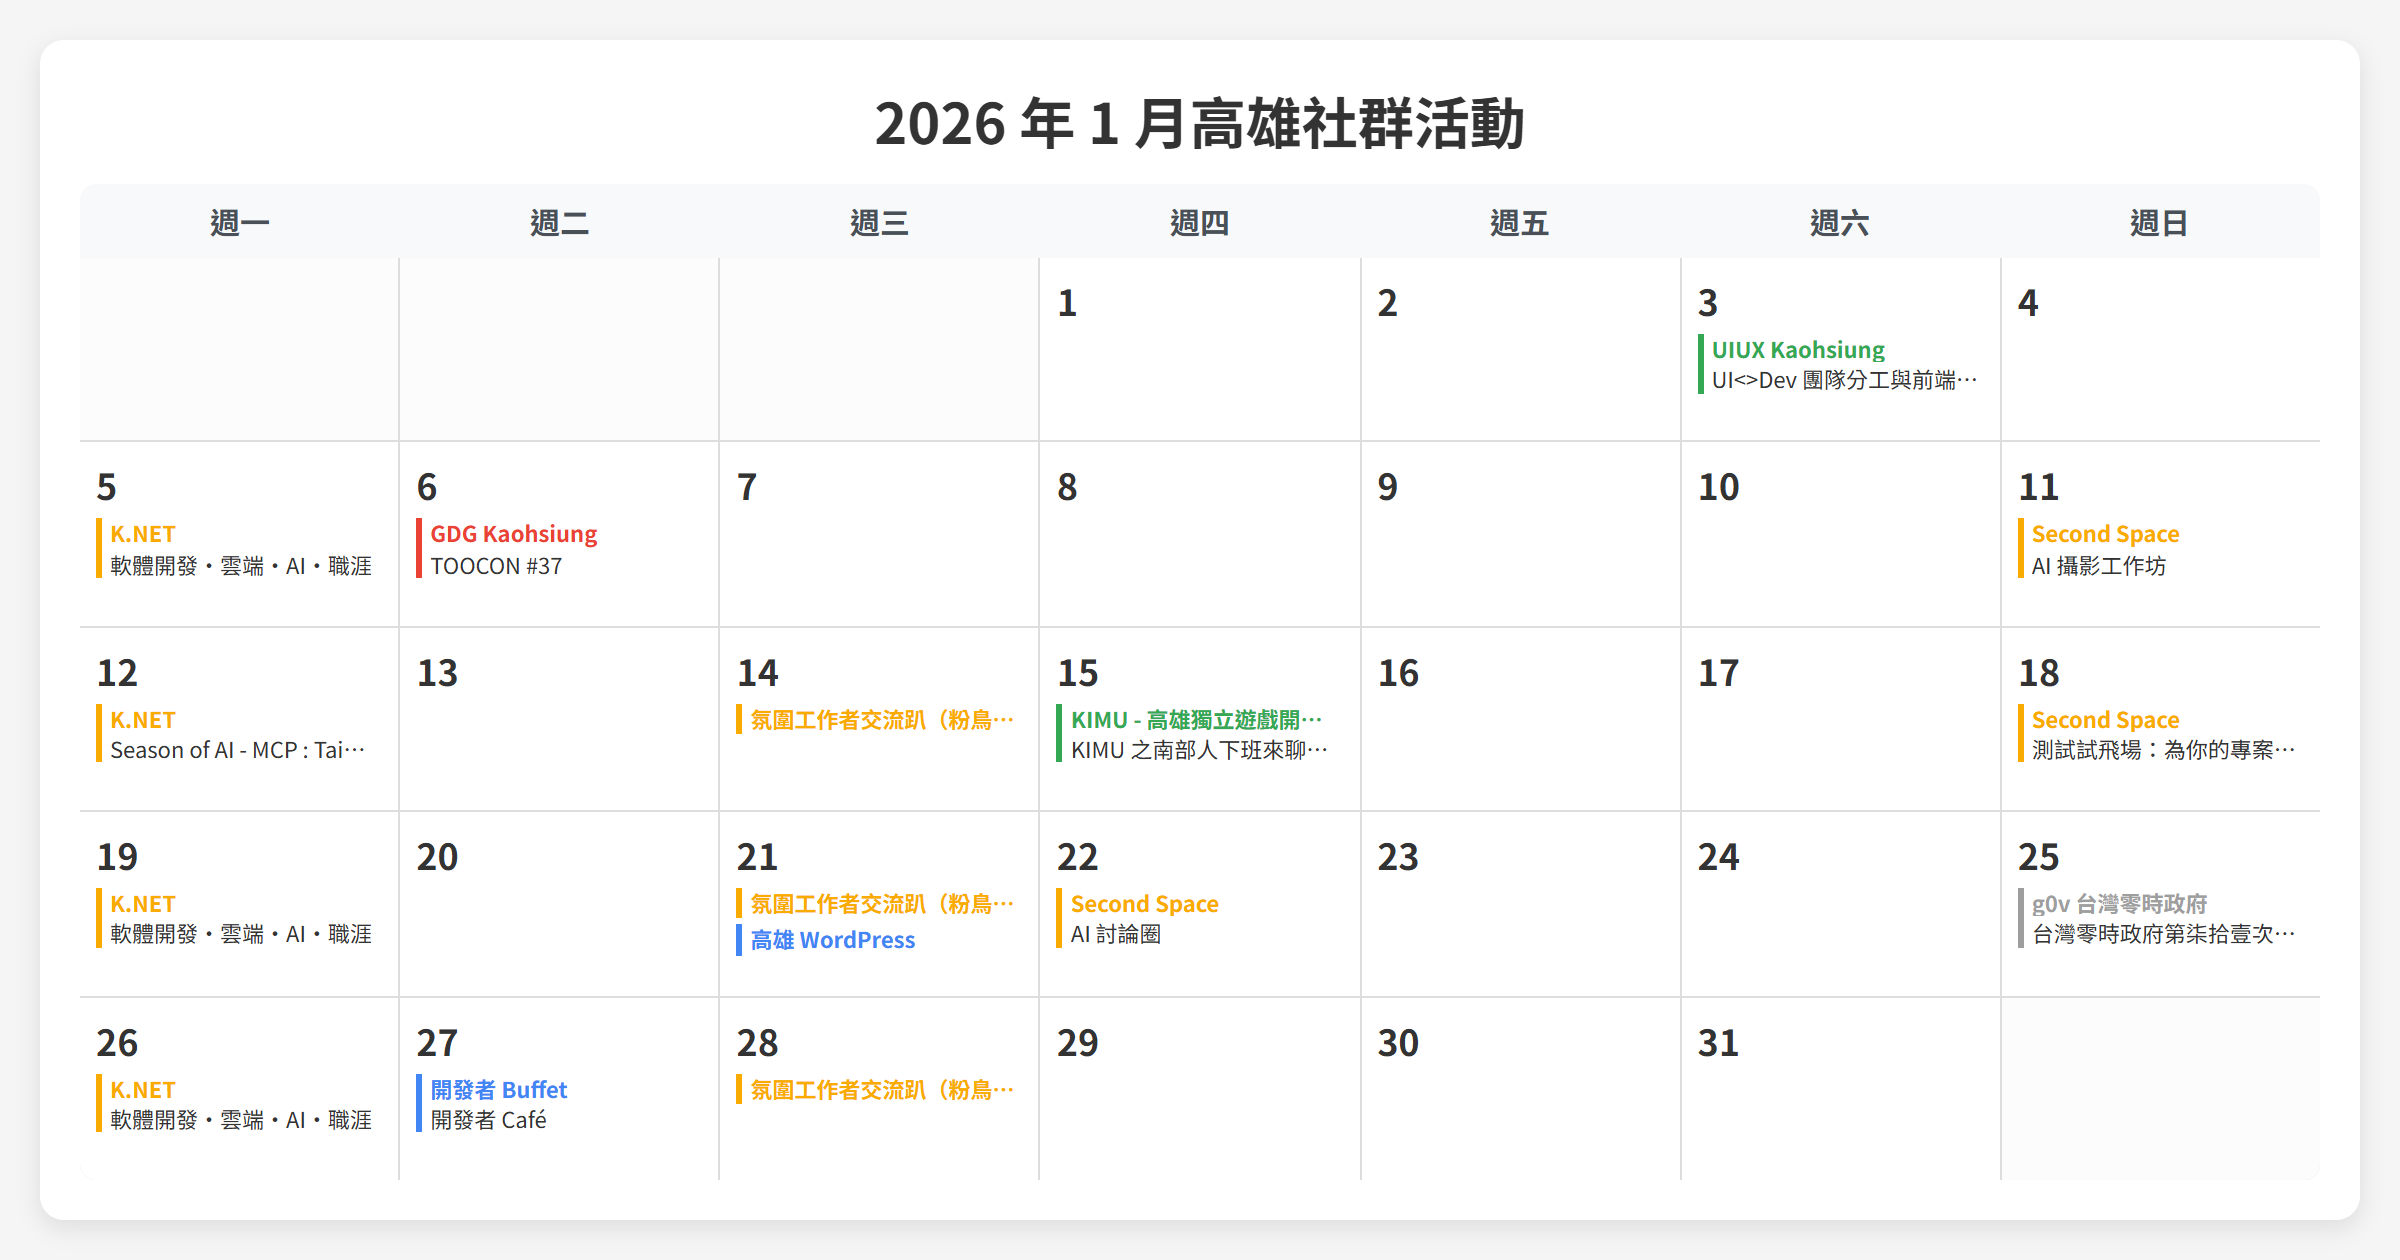
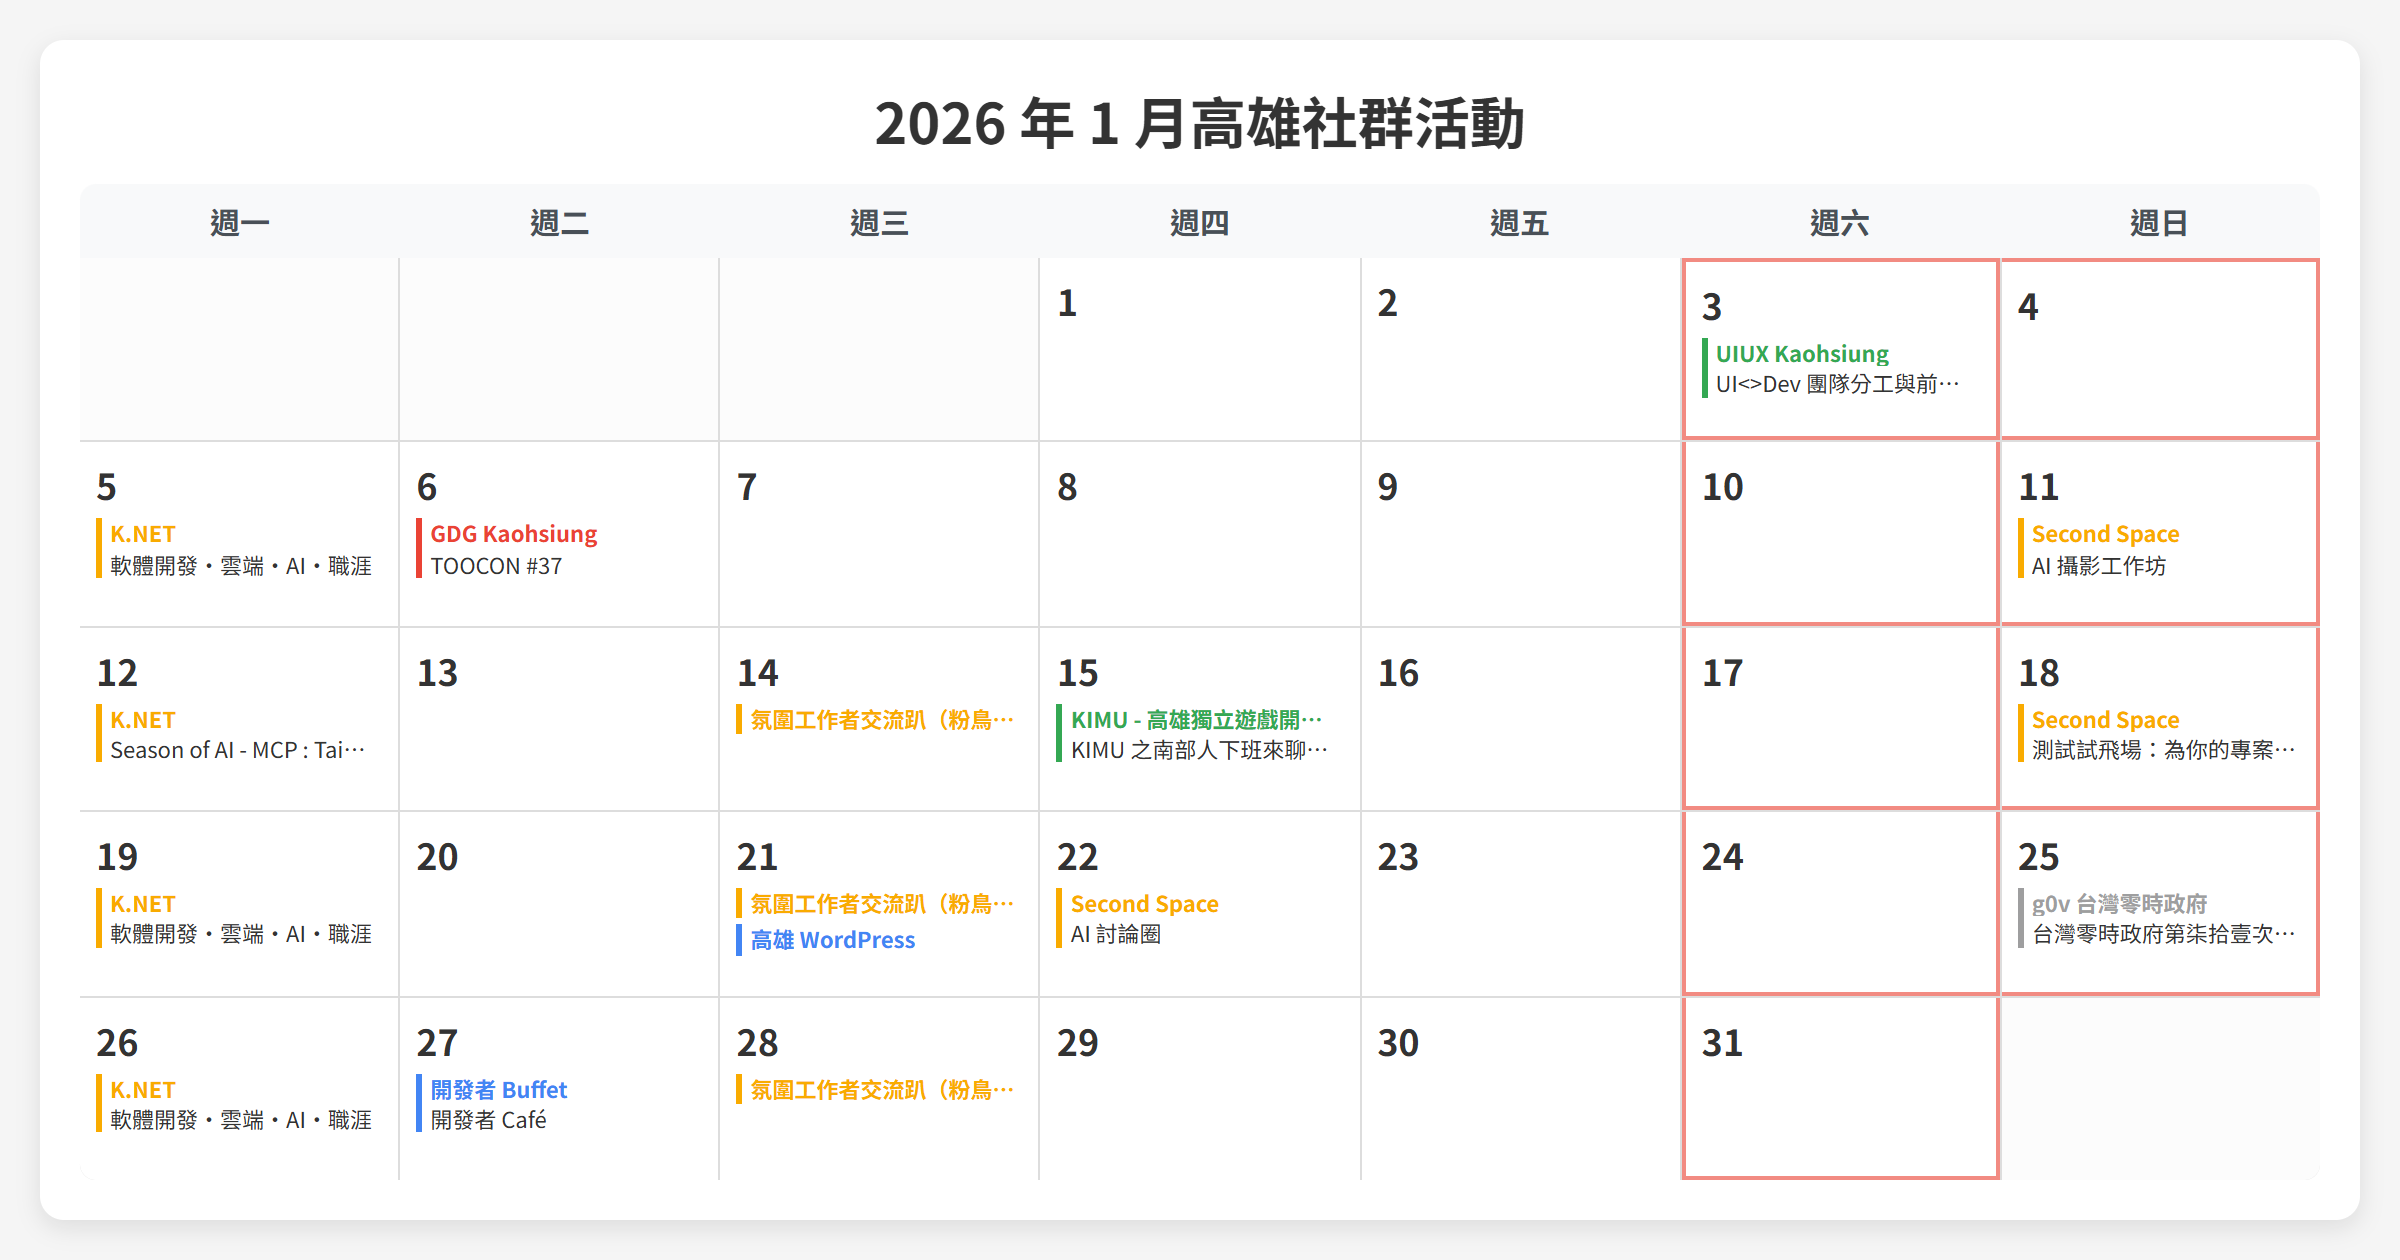
feat: 為社群月曆添加週末標示功能
- 為星期六和星期日的日期格子添加淺紅色邊框 (#f28b82)
- 使用智慧邊框邏輯避免週六/週日和上下週的邊框重疊
- 同步更新 OG 圖片生成模板，確保社群媒體分享時也能顯示週末標示
- 優化視覺效果，方便使用者快速識別假日

diff --git a/scripts/calendar-template.html b/scripts/calendar-template.html
@@ -93,6 +93,30 @@
             background: #fcfcfc;
         }
 
+        /* Weekend borders */
+        .calendar-day.saturday {
+            border-left: 2px solid #f28b82;
+            border-right: 2px solid #f28b82;
+            border-bottom: 2px solid #f28b82;
+        }
+
+        .calendar-day.sunday {
+            border-left: 2px solid #f28b82;
+            border-right: 2px solid #f28b82;
+            border-bottom: 2px solid #f28b82;
+        }
+
+        /* Add top border only when needed */
+        .calendar-day.saturday.weekend-top,
+        .calendar-day.sunday.weekend-top {
+            border-top: 2px solid #f28b82;
+        }
+
+        /* Remove duplicate border between Saturday and Sunday */
+        .calendar-day.saturday + .calendar-day.sunday {
+            border-left: none;
+        }
+
         .date-number {
             font-weight: bold;
             font-size: 18px;
@@ -173,9 +197,34 @@
             // Days
             for (let day = 1; day <= daysInMonth; day++) {
                 const dateStr = `${year}-${String(month).padStart(2, '0')}-${String(day).padStart(2, '0')}`;
+
+                // Calculate day of week (0=Sunday, 6=Saturday)
+                const currentDateObj = new Date(year, month - 1, day);
+                const dayOfWeek = currentDateObj.getDay();
+                const isSaturday = (dayOfWeek === 6);
+                const isSunday = (dayOfWeek === 0);
+                const isWeekend = isSaturday || isSunday;
+
+                // Check if we need top border
+                let needTopBorder = false;
+                if (isWeekend) {
+                    if (day <= 7) {
+                        needTopBorder = true;
+                    } else {
+                        const prevWeekDay = day - 7;
+                        const prevWeekDate = new Date(year, month - 1, prevWeekDay);
+                        const prevWeekDayOfWeek = prevWeekDate.getDay();
+                        const prevWeekIsWeekend = (prevWeekDayOfWeek === 0 || prevWeekDayOfWeek === 6);
+                        needTopBorder = !prevWeekIsWeekend;
+                    }
+                }
+
+                const weekendClass = isSaturday ? ' saturday' : (isSunday ? ' sunday' : '');
+                const topBorderClass = needTopBorder ? ' weekend-top' : '';
+
                 const dayEvents = events.filter(e => e.date === dateStr);
 
-                html += `<div class="calendar-day">
+                html += `<div class="calendar-day${weekendClass}${topBorderClass}">
                     <div class="date-number">${day}</div>`;
 
                 // If 2+ events on same day, only show community name

diff --git a/2026/calendar.html b/2026/calendar.html
@@ -191,11 +191,37 @@
                         // Days
                         for (let day = 1; day <= daysInMonth; day++) {
                             const dateStr = `${currentYear}-${String(currentMonth + 1).padStart(2, '0')}-${String(day).padStart(2, '0')}`;
-                            
+
+                            // Calculate day of week (0=Sunday, 6=Saturday)
+                            const currentDateObj = new Date(currentYear, currentMonth, day);
+                            const dayOfWeek = currentDateObj.getDay();
+                            const isSaturday = (dayOfWeek === 6);
+                            const isSunday = (dayOfWeek === 0);
+                            const isWeekend = isSaturday || isSunday;
+
+                            // Check if we need top border (if previous week same day is not weekend or doesn't exist)
+                            let needTopBorder = false;
+                            if (isWeekend) {
+                                if (day <= 7) {
+                                    // First week, always need top border
+                                    needTopBorder = true;
+                                } else {
+                                    // Check previous week same day
+                                    const prevWeekDay = day - 7;
+                                    const prevWeekDate = new Date(currentYear, currentMonth, prevWeekDay);
+                                    const prevWeekDayOfWeek = prevWeekDate.getDay();
+                                    const prevWeekIsWeekend = (prevWeekDayOfWeek === 0 || prevWeekDayOfWeek === 6);
+                                    needTopBorder = !prevWeekIsWeekend;
+                                }
+                            }
+
+                            const weekendClass = isSaturday ? ' saturday' : (isSunday ? ' sunday' : '');
+                            const topBorderClass = needTopBorder ? ' weekend-top' : '';
+
                             // Find events for this day
                             const dayEvents = allEvents.filter(e => e.date === dateStr);
-                            
-                            html += `<div class="calendar-day">
+
+                            html += `<div class="calendar-day${weekendClass}${topBorderClass}">
                                 <span class="date-number">${day}</span>`;
                             
                             if (dayEvents.length > 0) {

diff --git a/index.css b/index.css
@@ -186,6 +186,30 @@ ul {
     background-color: #fcfcfc;
 }
 
+/* Weekend borders */
+.calendar-day.saturday {
+    border-left: 1px solid #f28b82;
+    border-right: 1px solid #f28b82;
+    border-bottom: 1px solid #f28b82;
+}
+
+.calendar-day.sunday {
+    border-left: 1px solid #f28b82;
+    border-right: 1px solid #f28b82;
+    border-bottom: 1px solid #f28b82;
+}
+
+/* Add top border only when needed (to avoid overlap with previous week) */
+.calendar-day.saturday.weekend-top,
+.calendar-day.sunday.weekend-top {
+    border-top: 1px solid #f28b82;
+}
+
+/* Remove duplicate border between Saturday and Sunday */
+.calendar-day.saturday + .calendar-day.sunday {
+    border-left: none;
+}
+
 .date-number {
     font-weight: bold;
     color: #333;
